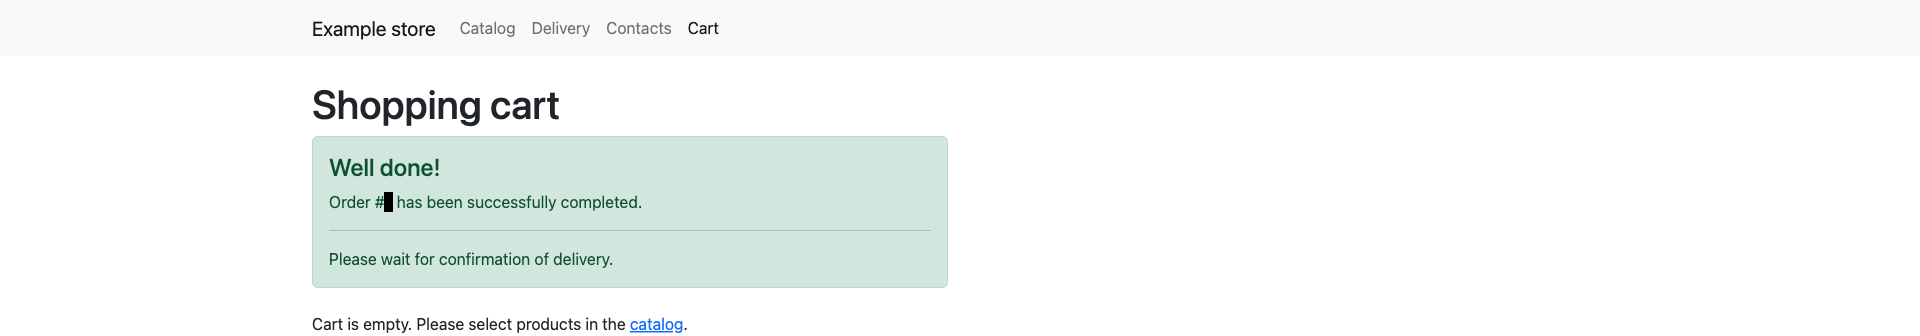
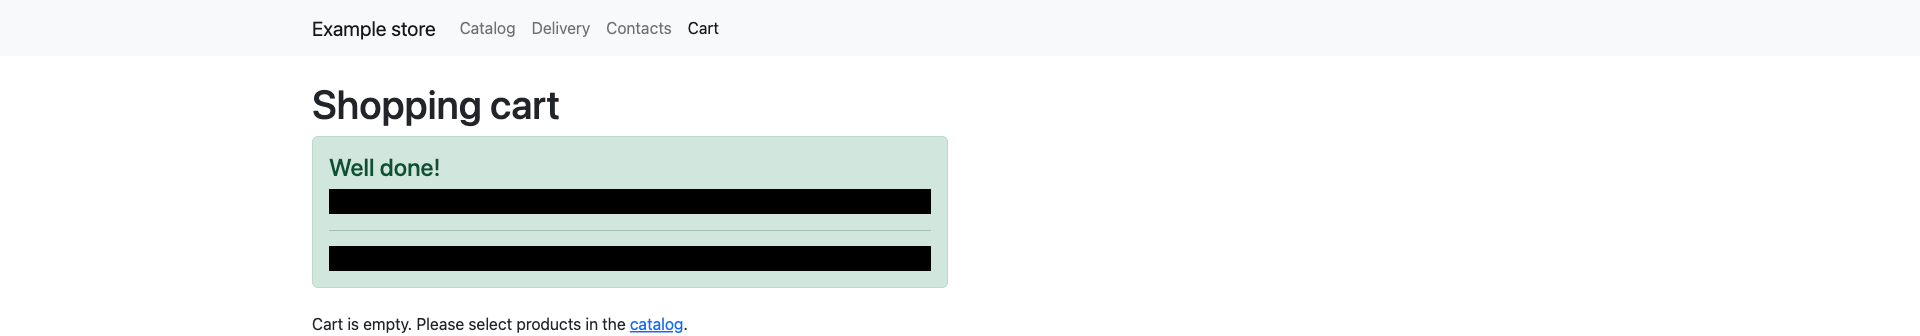
added tests

Changed region(s): [[0.1562, 0.7143, 0.5, 0.8036], [0.1562, 0.5655, 0.5, 0.6548]]

diff --git a/test/hermione/adaptive.hermione.js b/test/hermione/adaptive.hermione.js
@@ -1,62 +1,137 @@
 const { bug_id } = require('./bugId');
+const {commerce} = require("faker");
 
-describe("Общие требования", async function () {
-    it("вёрстка должна адаптироваться под ширину экрана 1100px", async ({browser}) => {
-        await browser.setWindowSize(1100, 800);
-        await browser.url('/hw/store' + `?bug_id=${bug_id}`);
-        const page = await browser.$(".Application");
-        await page.waitForExist();
+const generateMockedProducts = () => {
+    const products = []
 
-        await browser.assertView("plain", ".Application", {
-            compositeImage: false,
+    for(let id = 0; id < 27; id++) {
+        products.push({
+            id,
+            name: "товар " + id,
+            price: 100,
+            description: "Крутой товар " + id,
+            material: "Рубироид",
+            color: "красный",
         });
-        await browser.url('/hw/store/catalog/0' + `?bug_id=${bug_id}`);
-        const page1 = await browser.$(".Application");
-        await page1.waitForExist();
+    }
 
-        await browser.assertView("plain2", ".Application", {
-            compositeImage: false,
+    return products;
+}
+
+const mockedOneProduct = {
+    id: 1,
+    name: "товар1",
+    price: 100,
+    description: "Крутой товар",
+    material: "Рубироид",
+    color: "красный",
+}
+
+const onRequestHandler = (request) => {
+    switch (request.url()) {
+        case 'http://localhost:3000/hw/store/api/products/1': {
+            request.respond({
+                content: 'application/json',
+                headers: {"Access-Control-Allow-Origin": "*"},
+                body: JSON.stringify(mockedOneProduct)
+            })
+            break;
+        }
+        case 'http://localhost:3000/hw/store/api/products': {
+            request.respond({
+                content: 'application/json',
+                headers: {"Access-Control-Allow-Origin": "*"},
+                body: JSON.stringify(generateMockedProducts())
+            })
+            break;
+        }
+        default: request.continue({});
+    }
+}
+
+module.exports = {onRequestHandler}
+
+describe("Адаптивность", async function () {
+    describe('Страница товара', function () {
+        it("вёрстка должна адаптироваться под ширину экрана 1100px", async ({browser}) => { //bug_id=9
+            const puppeteer = await browser.getPuppeteer();
+            const [page] = await puppeteer.pages();
+            await page.setViewport({width: 1100, height: 1080});
+
+            await page.setRequestInterception(true);
+
+            page.on('request', onRequestHandler);
+            await page.goto('http://localhost:3000/hw/store/catalog/1' + (bug_id ? `?bug_id=${bug_id}` : ''));
+            await browser.assertView('product page 1100px width', '.Application')
         });
 
+        it("вёрстка должна адаптироваться под ширину экрана 800px", async ({browser}) => {
+            const puppeteer = await browser.getPuppeteer();
+            const [page] = await puppeteer.pages();
+            await page.setViewport({width: 800, height: 1080});
+
+            await page.goto('http://localhost:3000/hw/store/catalog/1' + (bug_id ? `?bug_id=${bug_id}` : ''));
+            await browser.assertView('product page 800px width', '.Application')
+        });
+
+        it("вёрстка должна адаптироваться под ширину экрана 700px", async ({browser}) => {
+            const puppeteer = await browser.getPuppeteer();
+            const [page] = await puppeteer.pages();
+            await page.setViewport({width: 700, height: 1080});
+
+            await page.goto('http://localhost:3000/hw/store/catalog/1' + (bug_id ? `?bug_id=${bug_id}` : ''));
+            await browser.assertView('product page 700px width', '.Application')
+        });
+
+        it("вёрстка должна адаптироваться под ширину экрана 570px", async ({browser}) => {
+            const puppeteer = await browser.getPuppeteer();
+            const [page] = await puppeteer.pages();
+            await page.setViewport({width: 570, height: 1080});
+
+            await page.goto('http://localhost:3000/hw/store/catalog/1' + (bug_id ? `?bug_id=${bug_id}` : ''));
+            await browser.assertView('product page 570px width', '.Application')
+        });
     });
-    it("Вёрстка должна адаптироваться под ширину экрана 800px", async ({browser}) => {
-        await browser.setWindowSize(800, 1000);
 
-        await browser.url('/hw/store' + `?bug_id=${bug_id}`);
+    describe('Страница каталога', function () {
+        const assertViewOpt = { screenshotDelay: 1000 }
+        it("вёрстка должна адаптироваться под ширину экрана 1100px", async ({browser}) => { //bug_id=9
+            const puppeteer = await browser.getPuppeteer();
+            const [page] = await puppeteer.pages();
+            await page.setViewport({width: 1100, height: 6000});
+            await page.setRequestInterception(true);
 
-        const page = await browser.$(".Application");
-        await page.waitForExist();
+            page.on('request', onRequestHandler);
 
-        await browser.assertView("plain", ".Application", {
-            compositeImage: false,
+            await page.goto('http://localhost:3000/hw/store/catalog/' + (bug_id ? `?bug_id=${bug_id}` : ''));
+            await browser.assertView('product page 1100px width', '.Application', assertViewOpt)
         });
 
-        await browser.url('/hw/store/catalog/0' + `?bug_id=${bug_id}`);
-        const page1 = await browser.$(".Application");
-        await page1.waitForExist();
+        it("вёрстка должна адаптироваться под ширину экрана 800px", async ({browser}) => {
+            const puppeteer = await browser.getPuppeteer();
+            const [page] = await puppeteer.pages();
+            await page.setViewport({width: 800, height: 6000});
 
-        await browser.assertView("plain2", ".Application", {
-            compositeImage: false,
+            await page.goto('http://localhost:3000/hw/store/catalog/' + (bug_id ? `?bug_id=${bug_id}` : ''));
+            await browser.assertView('product page 800px width', '.Application', assertViewOpt)
+        });
+
+        it("вёрстка должна адаптироваться под ширину экрана 700px", async ({browser}) => {
+            const puppeteer = await browser.getPuppeteer();
+            const [page] = await puppeteer.pages();
+            await page.setViewport({width: 700, height: 6000});
+
+            await page.goto('http://localhost:3000/hw/store/catalog/' + (bug_id ? `?bug_id=${bug_id}` : ''));
+            await browser.assertView('product page 700px width', '.Application', assertViewOpt)
+        });
+
+        it("вёрстка должна адаптироваться под ширину экрана 570px", async ({browser}) => {
+            const puppeteer = await browser.getPuppeteer();
+            const [page] = await puppeteer.pages();
+            await page.setViewport({width: 570, height: 15000});
+
+            await page.goto('http://localhost:3000/hw/store/catalog/' + (bug_id ? `?bug_id=${bug_id}` : ''));
+            await browser.assertView('product page 570px width', '.Application', {screenshotDelay: 2000})
         });
     });
-
-    //
-    // it("Страницы главная, доставка и контакты имеют статическое содержимое", async ({browser}) => {
-    //     await browser.setWindowSize(1920, 1080)
-    //     await browser.url('/hw/store' + `?bug_id=${bug_id}`);
-    //
-    //     await browser.assertView("home", ".Application", {
-    //         compositeImage: true,
-    //     });
-    //
-    //     await browser.url('/hw/store/delivery' + `?bug_id=${bug_id}`);
-    //     await browser.assertView("delivery", ".Application", {
-    //         compositeImage: true,
-    //     });
-    //
-    //     await browser.url('/hw/store/contacts' + `?bug_id=${bug_id}`);
-    //     await browser.assertView("contacts", ".Application", {
-    //         compositeImage: true,
-    //     });
-    // })
 })

diff --git a/test/hermione/cart.hermione.js b/test/hermione/cart.hermione.js
@@ -3,8 +3,6 @@ const { bug_id } = require('./bugId');
 
 describe('Проверка корзины на функциональность', () => {
     it("Cодержимое корзины должно сохраняться между перезагрузками страницы;", async ({browser}) => {
-        browser.setWindowSize(1366, 768); //bug_id=6
-
         const puppeteer = await browser.getPuppeteer();
         const [page] = await puppeteer.pages();
 
@@ -31,10 +29,10 @@ describe('Проверка корзины на функциональность'
     });
 
     describe('Проверка формы на функциональность', () => {
-        it("Поля формы заполнены корректно и при нажатии на кнопку Checkout появляется сообщение об успехе", async ({browser}) => {
-            const puppeteer = await browser.getPuppeteer(); //bug_id=10, 8, 5
+        const waitForSelectorOptions = { timeout: 5000 }
+        it("Поля формы должны валидировтаься корректно", async ({browser}) => {
+            const puppeteer = await browser.getPuppeteer(); //bug_id=10
             const [page] = await puppeteer.pages();
-            const waitForSelectorOptions = { timeout: 5000 }
 
             await page.goto('http://localhost:3000/hw/store/cart' + (bug_id ? `?bug_id=${bug_id}` : ''));
             await page.evaluate(() => {
@@ -57,10 +55,93 @@ describe('Проверка корзины на функциональность'
             const submitButtonSelector = '.Form-Submit';
             await page.waitForSelector(submitButtonSelector, waitForSelectorOptions);
             await page.click(submitButtonSelector);
+            await browser.pause(2000);
+
+            const sended = !Boolean(await page.$('.Form-Submit'));
+            if (sended) {
+                return;
+            }
+
+            const invalidFields = await Promise.all((await page.$$('.invalid-feedback')).map(inv => inv.boundingBox()));
+            assert.isNull(invalidFields[0], 'поле name было корректным, но появилась ошибка валидации');
+            assert.isNull(invalidFields[1], 'поле phone было корректным, но появилась ошибка валидации');
+            assert.isNull(invalidFields[2], 'поле phone было корректным, но появилась ошибка валидации');
+        });
+
+        it("Поля формы заполнены корректно и при нажатии на кнопку Checkout страница меняется", async ({browser}) => {
+            const puppeteer = await browser.getPuppeteer(); //bug_id=5
+            const [page] = await puppeteer.pages();
+
+            await page.goto('http://localhost:3000/hw/store/cart' + (bug_id ? `?bug_id=${bug_id}` : ''));
+            await page.evaluate(() => {
+                localStorage.setItem('example-store-cart', '{"1":{"name":"товар1","count":1,"price":100}}');
+            });
+            await page.goto('http://localhost:3000/hw/store/cart' + (bug_id ? `?bug_id=${bug_id}` : ''));
+            const nameInputSelector = '.Form-Field_type_name';
+            const phoneInputSelector = '.Form-Field_type_phone';
+            const addressTextareaSelector = '.Form-Field_type_address';
+            await Promise.all([
+                page.waitForSelector(nameInputSelector, waitForSelectorOptions),
+                page.waitForSelector(phoneInputSelector, waitForSelectorOptions),
+                page.waitForSelector(addressTextareaSelector, waitForSelectorOptions)
+            ]);
+
+            await page.type(nameInputSelector, 'Покупатель');
+            await page.type(phoneInputSelector, '89272346726');
+            await page.type(addressTextareaSelector, 'address');
+
+            const submitButtonSelector = '.Form-Submit';
+            await page.waitForSelector(submitButtonSelector, waitForSelectorOptions);
+            await page.click(submitButtonSelector);
+            await browser.pause(2000);
+
+            const sended = !Boolean(await page.$('.Form-Submit'));
+            if (sended) {
+                return;
+            }
+
+            const invalidFields = await Promise.all((await page.$$('.is-invalid')));
+            if (invalidFields?.length === 0) {
+                assert.fail('поля заполнены корректно, но страница не изменилась');
+            }
+        });
+
+        it("Поля формы заполнены корректно и при нажатии на кнопку Checkout появляется сообщение об успехе", async ({browser}) => {
+            const puppeteer = await browser.getPuppeteer(); //bug_id=8
+            const [page] = await puppeteer.pages();
+            await page.setViewport({ width: 1920, height: 1080 })
+
+            await page.goto('http://localhost:3000/hw/store/cart' + (bug_id ? `?bug_id=${bug_id}` : ''));
+            await page.evaluate(() => {
+                localStorage.setItem('example-store-cart', '{"1":{"name":"товар1","count":1,"price":100}}');
+            });
+            await page.goto('http://localhost:3000/hw/store/cart' + (bug_id ? `?bug_id=${bug_id}` : ''));
+            const nameInputSelector = '.Form-Field_type_name';
+            const phoneInputSelector = '.Form-Field_type_phone';
+            const addressTextareaSelector = '.Form-Field_type_address';
+            await Promise.all([
+                page.waitForSelector(nameInputSelector, waitForSelectorOptions),
+                page.waitForSelector(phoneInputSelector, waitForSelectorOptions),
+                page.waitForSelector(addressTextareaSelector, waitForSelectorOptions)
+            ]);
+
+            await page.type(nameInputSelector, 'Покупатель');
+            await page.type(phoneInputSelector, '89272346726');
+            await page.type(addressTextareaSelector, 'address');
+
+            const submitButtonSelector = '.Form-Submit';
+            await page.waitForSelector(submitButtonSelector, waitForSelectorOptions);
+            await page.click(submitButtonSelector);
+            await browser.pause(2000);
+
+            const sended = !Boolean(await page.$('.Form-Submit'));
+            if (!sended) {
+                return;
+            }
 
             await browser.assertView("Well_done", ".Application", {
-                compositeImage: false,
-                ignoreElements: ['.Cart-Number']
+                ignoreElements: ['p'],
+                screenshotDelay: 1000
             });
         });
     })

diff --git a/test/hermione/catalog.hermione.js b/test/hermione/catalog.hermione.js
@@ -1,0 +1,33 @@
+const {bug_id} = require("./bugId");
+const {assert} = require("chai");
+const {onRequestHandler} = require("./adaptive.hermione");
+
+describe('Каталог ', async () => {
+    it('в карточках должна быть краткая информация о товаре', async function({browser}) {//bug_id=1
+        const puppeteer = await browser.getPuppeteer();
+        const [page] = await puppeteer.pages()
+
+        await page.goto('http://localhost:3000/hw/store/catalog' + (bug_id ? `?bug_id=${bug_id}` : ''));
+        await page.waitForSelector('.ProductItem');
+        const productCards = await page.$$('.ProductItem');
+        const products = await Promise.all(productCards.map(async (card) => ({
+            name: await card.$eval('.ProductItem-Name', node => node.innerHTML),
+            price: await card.$eval('.ProductItem-Price', node => node.innerHTML),
+        })));
+        products.forEach(({name, price}) => {
+            assert.isNotFalse(Boolean(name.trim()), 'наименование товара отсутствует');
+            assert.equal(price[0], '$', 'цена должна начинаться со знака $');
+            assert.isNotFalse(price.length > 1, 'цена у товара отсутствует');
+            assert.isNumber(+price.slice(1), 'цена должна быть числом');
+        })
+    });
+
+    it("Сервер должен возвращать товар с id из запроса", async ({browser}) => { //bug_id=3
+        const puppeteer = await browser.getPuppeteer();
+        const [page] = await puppeteer.pages();
+        const res = (await page.goto('http://localhost:3000/hw/store/api/products/2' + (bug_id ? `?bug_id=${bug_id}` : '')));
+        const resJson = await res.json()
+
+        assert.equal(resJson.id, 2, `id товара в запросе (id=2) не совпадает с id товара, возвращаемого из сервера (id=${resJson.id})`)
+    });
+})

diff --git a/test/unit/catalog.test.tsx b/test/unit/catalog.test.tsx
@@ -1,5 +1,4 @@
-// import {describe, expect, it} from '@jest/globals'
-import {render, screen} from '@testing-library/react'
+import { render, screen} from '@testing-library/react'
 import {Provider} from "react-redux";
 import React from "react";
 import { createStore } from 'redux';
@@ -7,17 +6,10 @@ import {Catalog} from "../../src/client/pages/Catalog";
 import {BrowserRouter, MemoryRouter} from 'react-router-dom';
 import '@testing-library/jest-dom/extend-expect';
 import {Application} from "../../src/client/Application";
-import axios from "axios";
-import {ProductShortInfo} from "../../src/common/types";
+import {bug_id} from "../hermione/bugId"
 import {ExampleStore} from "../../src/server/data";
 
 const basename = '/'
-
-let bug_id = '';
-
-if (process.env.BUG_ID !== undefined) {
-    bug_id = process.env.BUG_ID
-}
 
 describe('Каталог товаров', () => {
     it ('В каталоге должны отображаться товары, список которых приходит с сервера', ()=> {
@@ -44,6 +36,7 @@ describe('Каталог товаров', () => {
     })
 
     it ('Для каждого товара в каталоге отображается название, цена и ссылка на страницу с подробной информацией о товаре', async ()=> {
+        console.log(bug_id)
         const products = new ExampleStore().getAllProducts(Number(bug_id)); //bud_id=1
         const initState = {
             cart: {},

diff --git a/test/unit/cart.test.tsx b/test/unit/cart.test.tsx
@@ -17,9 +17,9 @@ import {Route} from "react-router";
 const basename = '/'
 const api = new MockedExampleApi(basename) as any;
 const cart = new CartApi();
-const mockedStore = initStore(api, cart);
+export const mockedStore = initStore(api, cart);
 
-const Wrapper = (props: {children: ReactNode}) => {
+export const Wrapper = (props: {children: ReactNode}) => {
     return (
         <BrowserRouter basename={basename}>
             <Provider store={mockedStore}>
